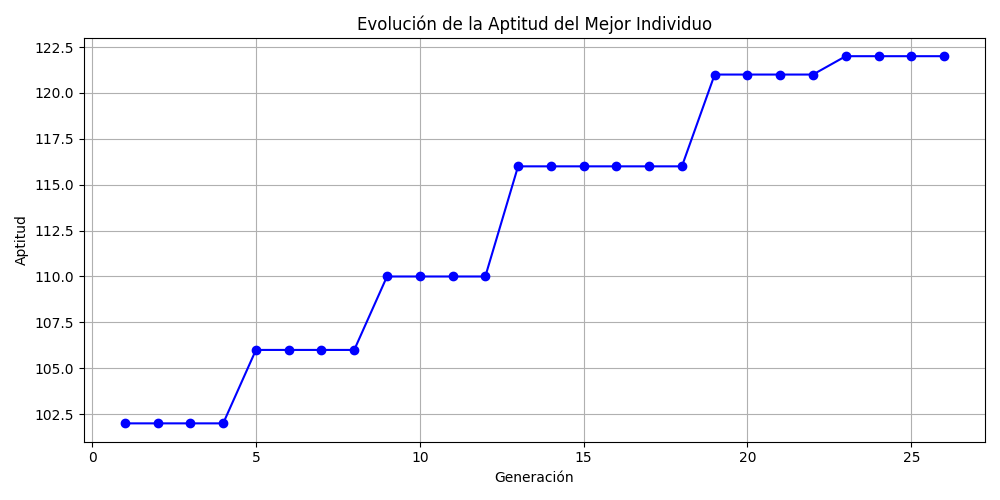
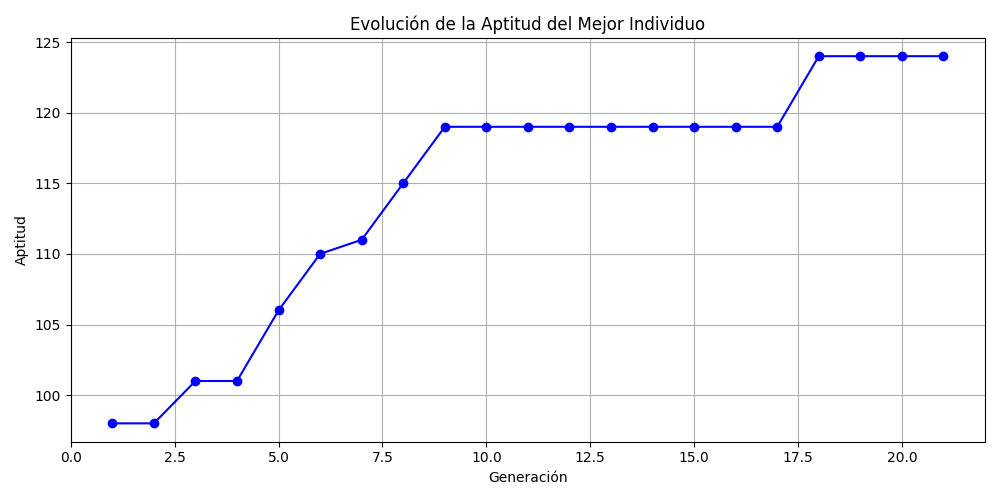
GUI FUNCIONAL (Pend solo restriccion de asignacion Curso-Salon)

diff --git a/interface/app.py b/interface/app.py
@@ -6,11 +6,14 @@ import webbrowser
 from PyQt5.QtWidgets import (
     QApplication, QWidget, QVBoxLayout, QPushButton, QLabel,
     QFileDialog, QLineEdit, QHBoxLayout, QTextEdit, QTabWidget, QFormLayout,
-    QScrollArea, QTableWidget, QTableWidgetItem, QHeaderView
+    QScrollArea, QTableWidget, QTableWidgetItem, QHeaderView,
+    QRadioButton, QButtonGroup, QGroupBox
 )
+
 from PyQt5.QtGui import QPixmap
 from PyQt5.QtCore import Qt, QUrl
 from PyQt5.QtWebEngineWidgets import QWebEngineView
+
 from interface.runner import ejecutar_algoritmo
 
 class MainApp(QWidget):
@@ -96,15 +99,48 @@ class MainApp(QWidget):
         self.fitness_input.setMaximumWidth(100)
         form_layout.addRow("Aptitud objetivo:", self.fitness_input)
 
+        # self.start_button = QPushButton("Ejecutar Algoritmo")
+        # self.start_button.setMaximumWidth(150)
+        # self.start_button.clicked.connect(self.run_algorithm)
+
+        # # Botón alineado a la izquierda con un poco de margen
+        # button_row = QHBoxLayout()
+        # button_row.setContentsMargins(130, 15, 0, 0)  # margen izquierdo y arriba
+        # button_row.setAlignment(Qt.AlignLeft)
+        # button_row.addWidget(self.start_button)
+        
+        # Radio buttons para elegir modo
+        self.option_group = QButtonGroup()
+
+        radio_box = QGroupBox("Modo de Ejecución")
+        radio_layout = QVBoxLayout()
+
+        self.option1 = QRadioButton("1. Aptitud objetivo (default)")
+        self.option1.setChecked(True)  # opción por defecto
+        self.option2 = QRadioButton("2. Número máximo de generaciones definida (A menos que alcance antes la aptitud objetivo)")
+        self.option3 = QRadioButton("3. Nivel de aptitud definido (Siempre que no sobrepase max. de generaciones)")
+
+        self.option_group.addButton(self.option1, 1)
+        self.option_group.addButton(self.option2, 2)
+        self.option_group.addButton(self.option3, 3)
+
+        radio_layout.addWidget(self.option1)
+        radio_layout.addWidget(self.option2)
+        radio_layout.addWidget(self.option3)
+
+        radio_box.setLayout(radio_layout)
+        layout.addWidget(radio_box)
+
+        # Botón
         self.start_button = QPushButton("Ejecutar Algoritmo")
         self.start_button.setMaximumWidth(150)
         self.start_button.clicked.connect(self.run_algorithm)
 
-        # Botón alineado a la izquierda con un poco de margen
         button_row = QHBoxLayout()
-        button_row.setContentsMargins(130, 15, 0, 0)  # margen izquierdo y arriba
+        button_row.setContentsMargins(130, 15, 0, 0)
         button_row.setAlignment(Qt.AlignLeft)
         button_row.addWidget(self.start_button)
+
 
         layout.addLayout(form_layout)
         layout.addLayout(button_row)
@@ -152,6 +188,16 @@ class MainApp(QWidget):
         content = QWidget()
         content_layout = QVBoxLayout()
 
+        # Resumen del JSON
+        self.json_summary_label = QLabel("Resumen del Resultado Final")
+        self.json_summary_output = QTextEdit()
+        self.json_summary_output.setReadOnly(True)
+        self.json_summary_output.setMaximumHeight(180)
+
+        content_layout.addWidget(self.json_summary_label)
+        content_layout.addWidget(self.json_summary_output)
+        
+        # Gráficas
         self.graph_paths = [
             ("Evolución de Aptitud", "exports/graficas/evolucion_aptitud.png"),
             ("Conflictos por Generación", "exports/graficas/conflictos_por_generacion.png"),
@@ -167,16 +213,18 @@ class MainApp(QWidget):
             content_layout.addWidget(img_label)
             self.graph_labels.append((img_label, path))
 
+
         content.setLayout(content_layout)
         scroll.setWidget(content)
         layout.addWidget(scroll)
-        return layout
+        return layout        
 
     def run_algorithm(self):
         cursos = self.csv_labels["Cursos"].text()
         docentes = self.csv_labels["Docentes"].text()
         relacion = self.csv_labels["Relación Docente-Curso"].text()
         salones = self.csv_labels["Salones"].text()
+        
         try:
             poblacion = int(self.population_input.text())
             generaciones = int(self.generations_input.text())
@@ -186,21 +234,45 @@ class MainApp(QWidget):
             return
 
         self.console_output.append("[INFO] Ejecutando el algoritmo genético...\n")
-
+        
         try:
+            modo = self.option_group.checkedId()
+
             logs, resultados = ejecutar_algoritmo(
                 cursos, docentes, relacion, salones,
                 poblacion_size=poblacion,
                 generaciones_max=generaciones,
-                aptitud_objetivo=aptitud
+                aptitud_objetivo=aptitud,
+                modo=modo
             )
+
             for log in logs:
                 self.console_output.append(log)
+
+            # Mostrar en consola
+            self.console_output.append("\n[Resumen del Resultado Final]")
+            for clave, valor in resultados.items():
+                self.console_output.append(f"- {clave.replace('_', ' ').capitalize()}: {valor}")
+
+            # Mostrar en sección Reportes
+            summary_text = "[Resumen del Resultado Final]\n"
+            for clave, valor in resultados.items():
+                if isinstance(valor, dict):
+                    summary_text += f"- {clave.replace('_', ' ').capitalize()}:\n"
+                    for subkey, subval in valor.items():
+                        summary_text += f"    > {subkey}: {subval}\n"
+                else:
+                    summary_text += f"- {clave.replace('_', ' ').capitalize()}: {valor}\n"
+            self.json_summary_output.setPlainText(summary_text)
+
+            # Cargar resultados
             self.load_schedule_csv_to_table()
             self.load_pdf_result()
             self.load_report_graphs()
+
         except Exception as e:
             self.console_output.append(f"[ERROR] Error al ejecutar el algoritmo: {e}")
+
             
     def load_schedule_csv_to_table(self):
         path = os.path.abspath("exports/csv/mejor_horario.csv")

diff --git a/interface/runner.py b/interface/runner.py
@@ -9,8 +9,7 @@ from poblacion import Poblacion
 from time import time
 import tracemalloc
 
-def ejecutar_algoritmo(path_cursos, path_docentes, path_relacion, path_salones,
-                       poblacion_size=10, generaciones_max=250, aptitud_objetivo=125):
+def ejecutar_algoritmo(path_cursos, path_docentes, path_relacion, path_salones, poblacion_size=10, generaciones_max=250, aptitud_objetivo=125, modo=1):
     logs = []
     cursos = cargar_cursos(path_cursos)
     docentes = cargar_docentes(path_docentes)
@@ -43,7 +42,14 @@ def ejecutar_algoritmo(path_cursos, path_docentes, path_relacion, path_salones,
         generacion_final = gen + 1
         conflictos = mejor.calcular_conflictos()
         conflicts_history.append(conflictos)
-        if mejor.aptitud >= aptitud_objetivo:
+
+        if modo == 1 and mejor.aptitud >= aptitud_objetivo:
+            logs.append(f"[OK] Aptitud objetivo alcanzada en la generación {gen + 1}")
+            break
+        elif modo == 2 and gen + 1 >= generaciones_max:
+            logs.append("[OK] Límite de generaciones alcanzado.")
+            break
+        elif modo == 3 and mejor.aptitud >= aptitud_objetivo:
             logs.append(f"[OK] Aptitud objetivo alcanzada en la generación {gen + 1}")
             break
 
